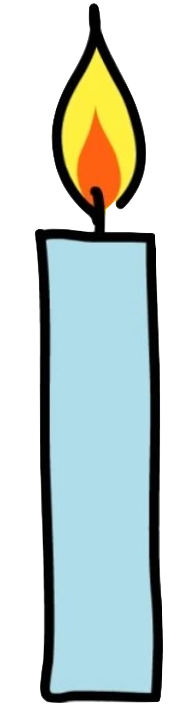
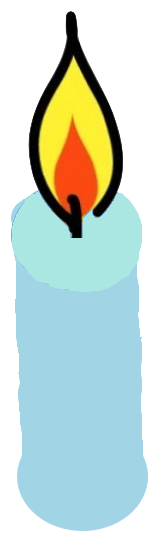
model changes

diff --git a/lib/appetite/select_people.dart b/lib/appetite/select_people.dart
@@ -35,63 +35,63 @@ class _SelectPeopleState extends State<SelectPeopleWidget> {
         title: Text(widget.recipe.name),
       ),
       body: Column(
-        mainAxisAlignment: MainAxisAlignment.center,
+        mainAxisAlignment: MainAxisAlignment.spaceAround,
         children: [
           platesWidget,
-          SizedBox(
-            height: 50,
-          ),
-          Row(
-            mainAxisAlignment: MainAxisAlignment.center,
-            crossAxisAlignment: CrossAxisAlignment.center,
-            children: [
-              OutlineButton(
-                child: Icon(Icons.remove),
-                onPressed: people > 1
-                    ? () {
-                        setState(() {
-                          people -= 1;
-                          platesWidget.removePlate();
-                        });
-                      }
-                    : null,
-              ),
-              const SizedBox(
-                width: 12,
-              ),
-              Container(
-                decoration: BoxDecoration(
-                  shape: BoxShape.circle,
-                  color: Theme.of(context).primaryColor,
-                  boxShadow: [BoxShadow(color: Colors.black, blurRadius: 2)],
+          Padding(
+            padding: const EdgeInsets.only(bottom: 60.0),
+            child: Row(
+              mainAxisAlignment: MainAxisAlignment.center,
+              crossAxisAlignment: CrossAxisAlignment.center,
+              children: [
+                OutlineButton(
+                  child: Icon(Icons.remove),
+                  onPressed: people > 1
+                      ? () {
+                          setState(() {
+                            people -= 1;
+                            platesWidget.removePlate();
+                          });
+                        }
+                      : null,
                 ),
-                child: Padding(
-                  padding: const EdgeInsets.all(20.0),
-                  child: Text(
-                    people.toString().padLeft(2, '0'),
-                    style: TextStyle(
-                      color: Theme.of(context).colorScheme.onPrimary,
-                      fontSize: 20.0,
-                      fontWeight: FontWeight.bold,
+                const SizedBox(
+                  width: 12,
+                ),
+                Container(
+                  decoration: BoxDecoration(
+                    shape: BoxShape.circle,
+                    color: Theme.of(context).primaryColor,
+                    boxShadow: [BoxShadow(color: Colors.black, blurRadius: 2)],
+                  ),
+                  child: Padding(
+                    padding: const EdgeInsets.all(20.0),
+                    child: Text(
+                      people.toString().padLeft(2, '0'),
+                      style: TextStyle(
+                        color: Theme.of(context).colorScheme.onPrimary,
+                        fontSize: 20.0,
+                        fontWeight: FontWeight.bold,
+                      ),
                     ),
                   ),
                 ),
-              ),
-              const SizedBox(
-                width: 12,
-              ),
-              OutlineButton(
-                child: Icon(Icons.add),
-                onPressed: people < 15
-                    ? () {
-                        setState(() {
-                          people += 1;
-                          platesWidget.addPlate();
-                        });
-                      }
-                    : null,
-              ),
-            ],
+                const SizedBox(
+                  width: 12,
+                ),
+                OutlineButton(
+                  child: Icon(Icons.add),
+                  onPressed: people < 15
+                      ? () {
+                          setState(() {
+                            people += 1;
+                            platesWidget.addPlate();
+                          });
+                        }
+                      : null,
+                ),
+              ],
+            ),
           ),
         ],
       ),
@@ -153,7 +153,6 @@ class PlatesWidget extends StatefulWidget {
 class _PlatesState extends State<PlatesWidget> with TickerProviderStateMixin {
   List<Plate> plates = [];
   AnimationController controller;
-  AnimationController _vibrateController;
   Animation<double> _vibrateAnimation;
   Animation<double> _radiusPlate;
   Animation<double> _radiusTable;
@@ -214,13 +213,13 @@ class _PlatesState extends State<PlatesWidget> with TickerProviderStateMixin {
           alignment: Alignment.center,
           transform: Matrix4.skew(getRotation(_vibrateAnimation.value),
               getRotation(_vibrateAnimation.value))
-            ..rotateX(pi / 2.75 + getRotation(_vibrateAnimation.value)),
+            ..rotateX(pi / 4.5 + getRotation(_vibrateAnimation.value)),
           child: Container(
             decoration: BoxDecoration(
               shape: BoxShape.circle,
               boxShadow: [
                 BoxShadow(
-                    offset: Offset(0, 180),
+                    offset: Offset(0, 150),
                     blurRadius: 50,
                     spreadRadius: -10,
                     color: Colors.black87)
@@ -235,19 +234,19 @@ class _PlatesState extends State<PlatesWidget> with TickerProviderStateMixin {
                 width: 300,
                 height: 300,
                 child: AnimatedSwitcher(
-                  duration: Duration(milliseconds: 200),
+                  duration: Duration(milliseconds: 400),
                   transitionBuilder:
                       (Widget child, Animation<double> animation) {
                     return ScaleTransition(child: child, scale: animation);
                   },
                   child: _amountPlates == 2
                       ? Transform.translate(
-                          offset: Offset(0, -65),
+                          offset: Offset(0, -35),
                           child: SizedBox(
                               child: Image(
                             image: AssetImage('assets/candle.png'),
                             width: 20,
-                            height: 120,
+                            height: 80,
                             fit: BoxFit.fill,
                           )),
                           key: ValueKey<int>(2),

diff --git a/lib/models/ingredient.g.dart b/lib/models/ingredient.g.dart
@@ -9,18 +9,18 @@ part of 'ingredient.dart';
 Ingredient _$IngredientFromJson(Map<String, dynamic> json) {
   return Ingredient(
     json['name'] as String,
-    json['measurementUnit'] as String,
+    json['measurement_unit'] as String,
     json['type'] as String,
     (json['price'] as num)?.toDouble(),
-    json['pictureUrl'] as String,
+    json['picture'] as String,
   );
 }
 
 Map<String, dynamic> _$IngredientToJson(Ingredient instance) =>
     <String, dynamic>{
       'name': instance.name,
-      'measurementUnit': instance.measurementUnit,
+      'measurement_unit': instance.measurement_unit,
       'type': instance.type,
       'price': instance.price,
-      'pictureUrl': instance.pictureUrl,
+      'picture': instance.picture,
     };

diff --git a/lib/models/ingredient.dart b/lib/models/ingredient.dart
@@ -5,13 +5,13 @@ part 'ingredient.g.dart';
 @JsonSerializable()
 class Ingredient {
   final String name;
-  final String measurementUnit;
+  final String measurement_unit;
   final String type; // Vegetable, meat, dairy,...
   final double price; // Price in euro for 1 measurementUnit
-  final String pictureUrl;
+  final String picture;
 
   Ingredient(
-      this.name, this.measurementUnit, this.type, this.price, this.pictureUrl)
+      this.name, this.measurement_unit, this.type, this.price, this.picture)
       : super();
 
   factory Ingredient.fromJson(Map<String, dynamic> json) => _$IngredientFromJson(json);
